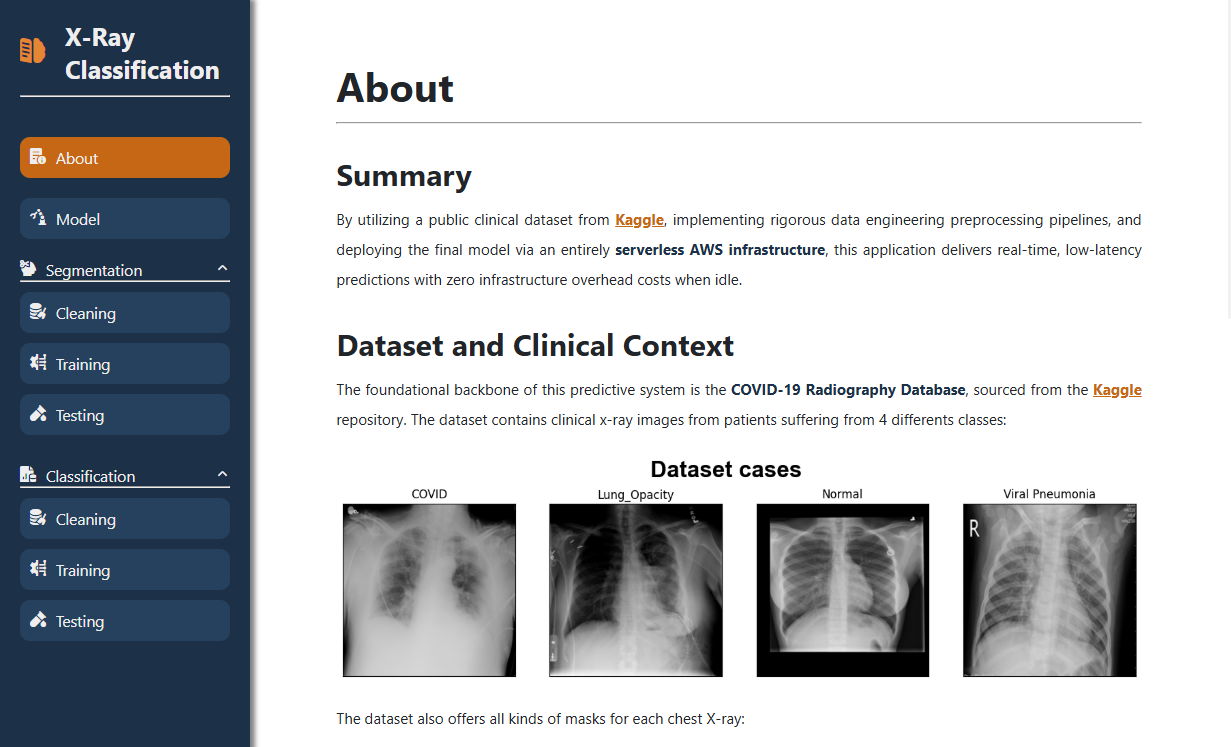
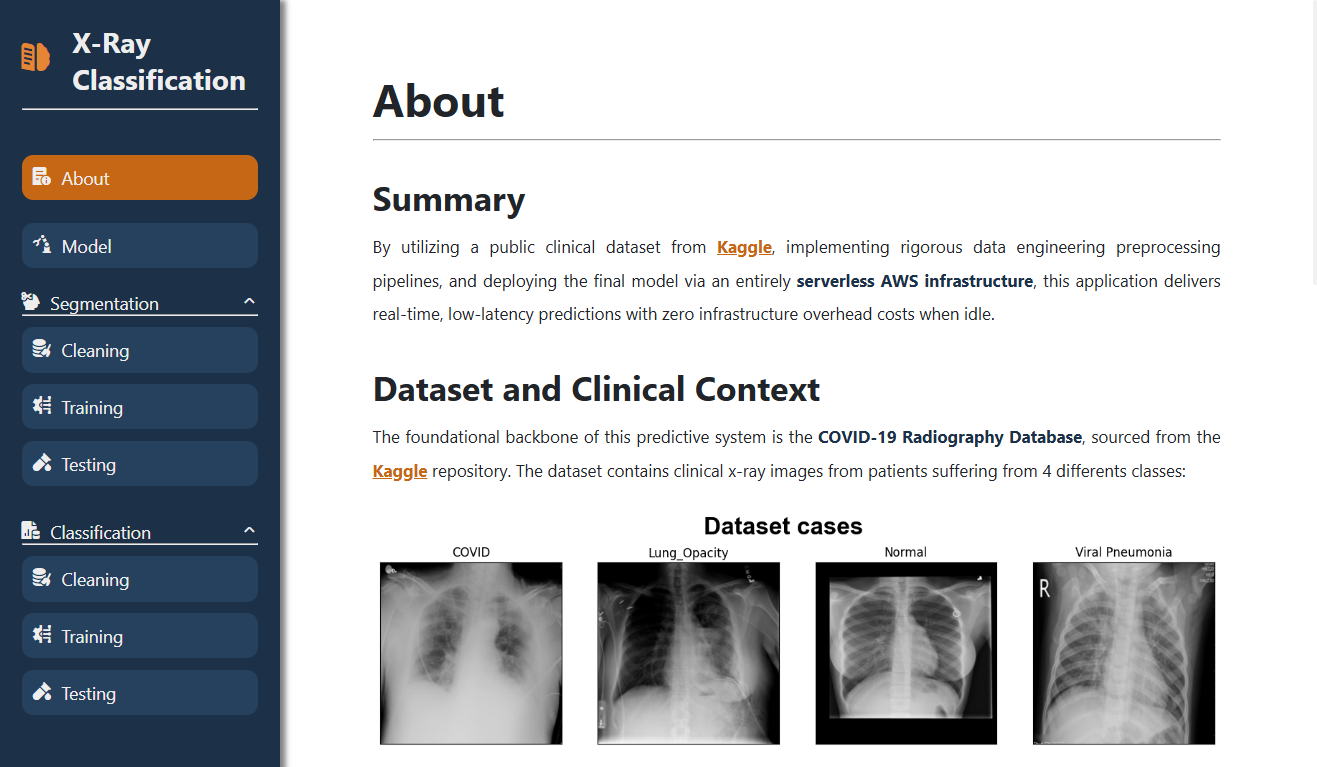
Fixing cv and xray image project.

diff --git a/src/app/projects/project.js b/src/app/projects/project.js
@@ -33,7 +33,7 @@ export const project = [
       },
       {
         icon: "fi fi-rr-browser",
-        link: "http://diabetes-frontend.s3-website.us-east-2.amazonaws.com/about",
+        link: "https://diabetes.tulio-inoue.com/about",
         name: "view",
       },
     ],
@@ -70,7 +70,7 @@ export const project = [
       },
       {
         icon: "fi fi-rr-browser",
-        link: "http://ecolungs-frontend.s3-website.us-east-2.amazonaws.com/about",
+        link: "https://ecolungs.tulio-inoue.com/about",
         name: "view",
       },
     ],
@@ -104,12 +104,12 @@ export const project = [
     links: [
       {
         icon: "fi fi-brands-github",
-        link: "https://github.com/TulioInoue/diabetes_frontend",
+        link: "https://github.com/TulioInoue/Xray_frontend",
         name: "code",
       },
       {
         icon: "fi fi-rr-browser",
-        link: "http://chest-xray-frontend.s3-website.us-east-2.amazonaws.com/about",
+        link: "https://chest-xray.tulio-inoue.com/about",
         name: "view",
       },
     ],

diff --git a/src/app/projects/projectCard/ProjectCard.module.css b/src/app/projects/projectCard/ProjectCard.module.css
@@ -80,7 +80,6 @@
 .projectCard__links {
   display: flex;
   gap: 1rem;
-  /* padding: 1rem; */
 }
 
 .projectCard__links a {